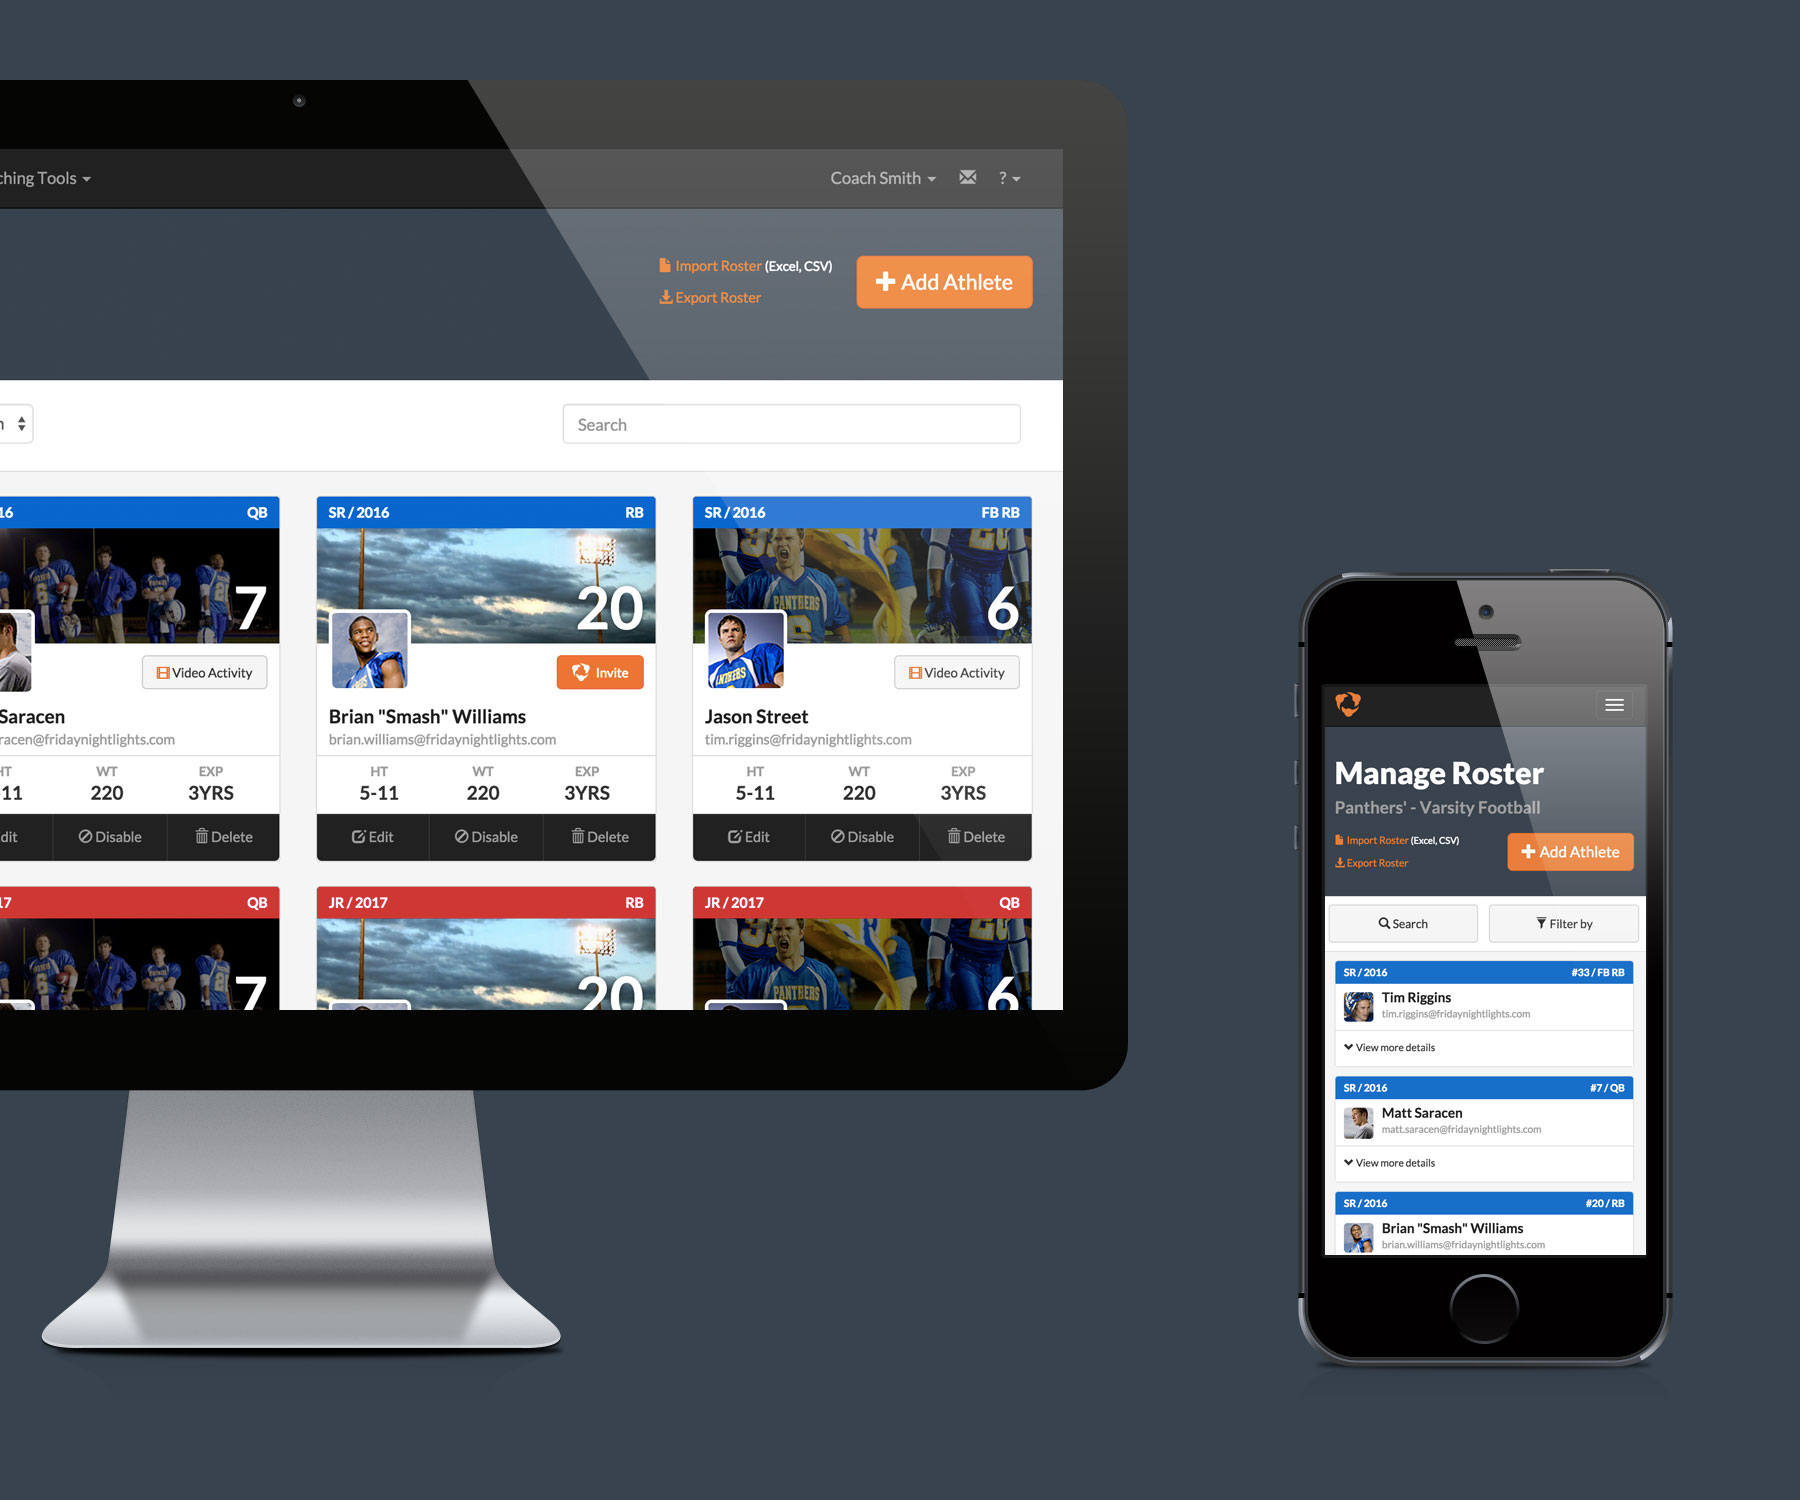
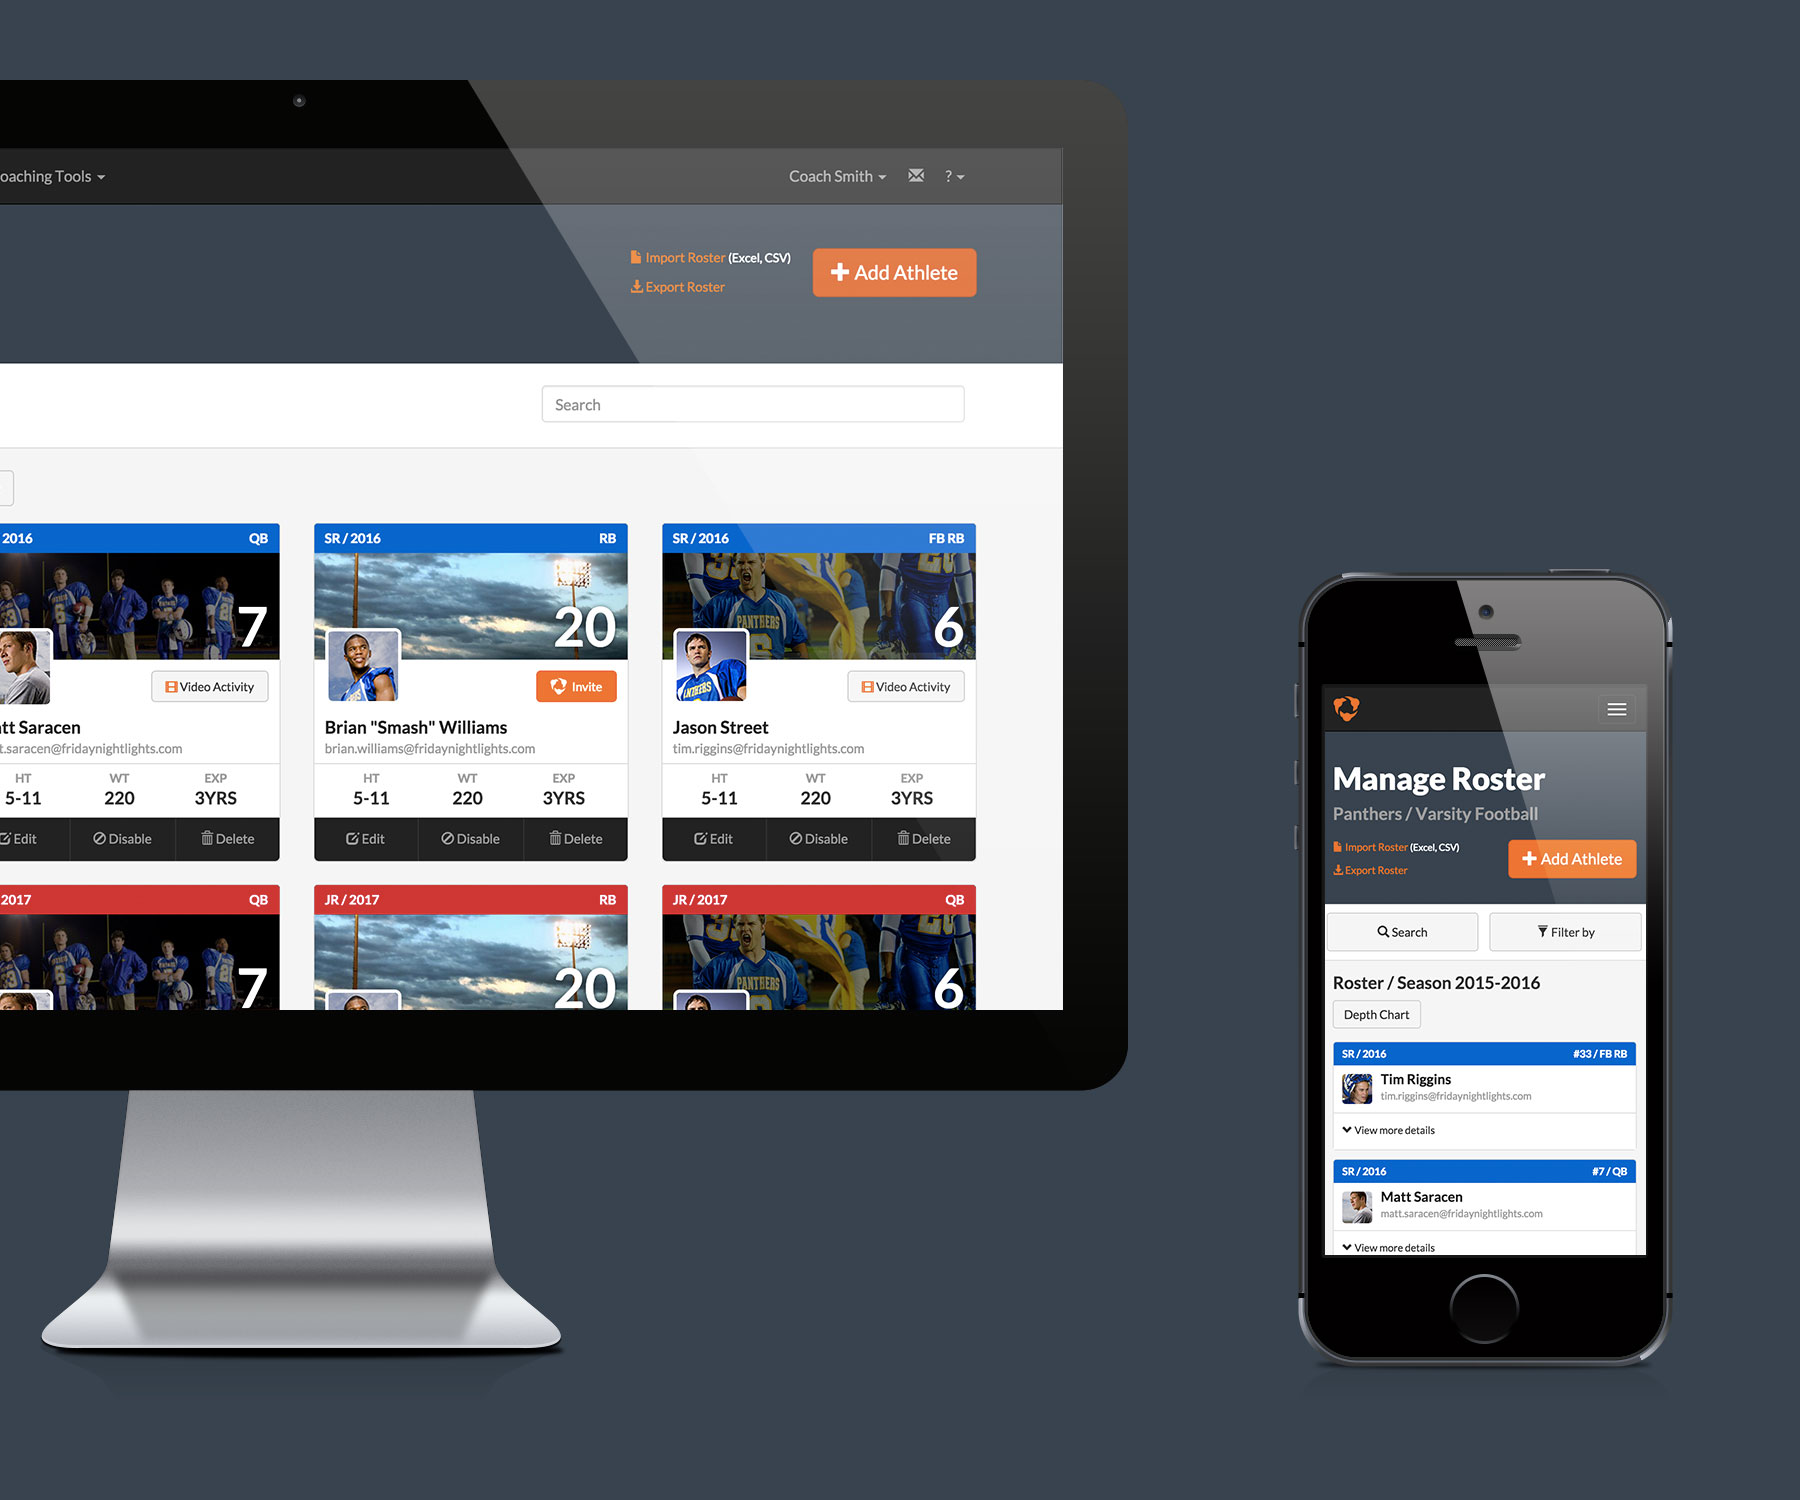
committ hudl

diff --git a/hudl/index.html b/hudl/index.html
@@ -112,6 +112,7 @@
 					<li>Add Athlete, which is the way to add/import/export athletes from the roster</li>
 					<li>Filter Roster, is the way to filter the roster by seasons, graduation year or positions</li>
 					<li>Roster List, is the view of every athlete on the roster with the ability to edit/archive/delete roster members</li>
+					<li>Depth Chart, which is the way to manage depth for each position on the roster</li>
 				</ul>
 				<p>The cases depict different kinds of activities when using the manage roster screen; adding athletes to the roster, filter through the roster and just viewing the current roster. </p>
 			</div>
@@ -123,7 +124,7 @@
 			<div class="col-sm-8 col-sm-offset-2">
 				<h2>Design</h2>
 				<p>Okay, let’s start designing! I prefer a combination of pencil and paper, Photoshop, Illustrator, Balsamiq, html,css.  The goal is to get to something clickable as quickly as possible.  After doing all the up-front work I have a pretty good idea for what might be a solid direction. For this project, I’ve decided to sketch a few ideas then go straight into HTML/CSS. This will save me time by doing most of the design iteration and tweaks in the browser. It’s important that the site acts similar in all screen sizes. As such, all browsers and screen sizes need to behave in such ways that users won’t have to relearn everything, essentially forming what we call cross-platform consistency.</p>
-				<p>Now’s the part where we have to explore layouts for the user flows by organizing the details and connecting the dots. The areas of focus are Add Athletes, Filter Options and Roster list. </p>
+				<p>Now’s the part where we have to explore layouts for the user flows by organizing the details and connecting the dots. The areas of focus are Add Athletes, Filter Options, Roster list and Depth Chart. </p>
 			</div>
 		</div>
 	</div>
@@ -206,6 +207,20 @@
 	<div class="article-images-lg">
 		<img src="images/grid.jpg">
 	</div>
+
+	<div class="container-fluid">
+		<div class="row">
+			<div class="col-sm-8 col-sm-offset-2">
+				<h3>Depth Chart</h3>
+				<p>The last area I wanted to explore was the depth chart. When you add athletes to the roster they are assigned positions. These positions are where they're added within the depth chart. Once added, I decided to add the ability to rearrange athletes. If the athlete is marked as injured in their profile they will be placed at the bottom of the depth chart with an indicator.</p>
+			</div>
+		</div>
+	</div>
+
+	<div class="article-images-lg">
+		<img src="images/depth-chart.jpg">
+	</div>
+
 
 	<div class="container-fluid">
 		<div class="row">
